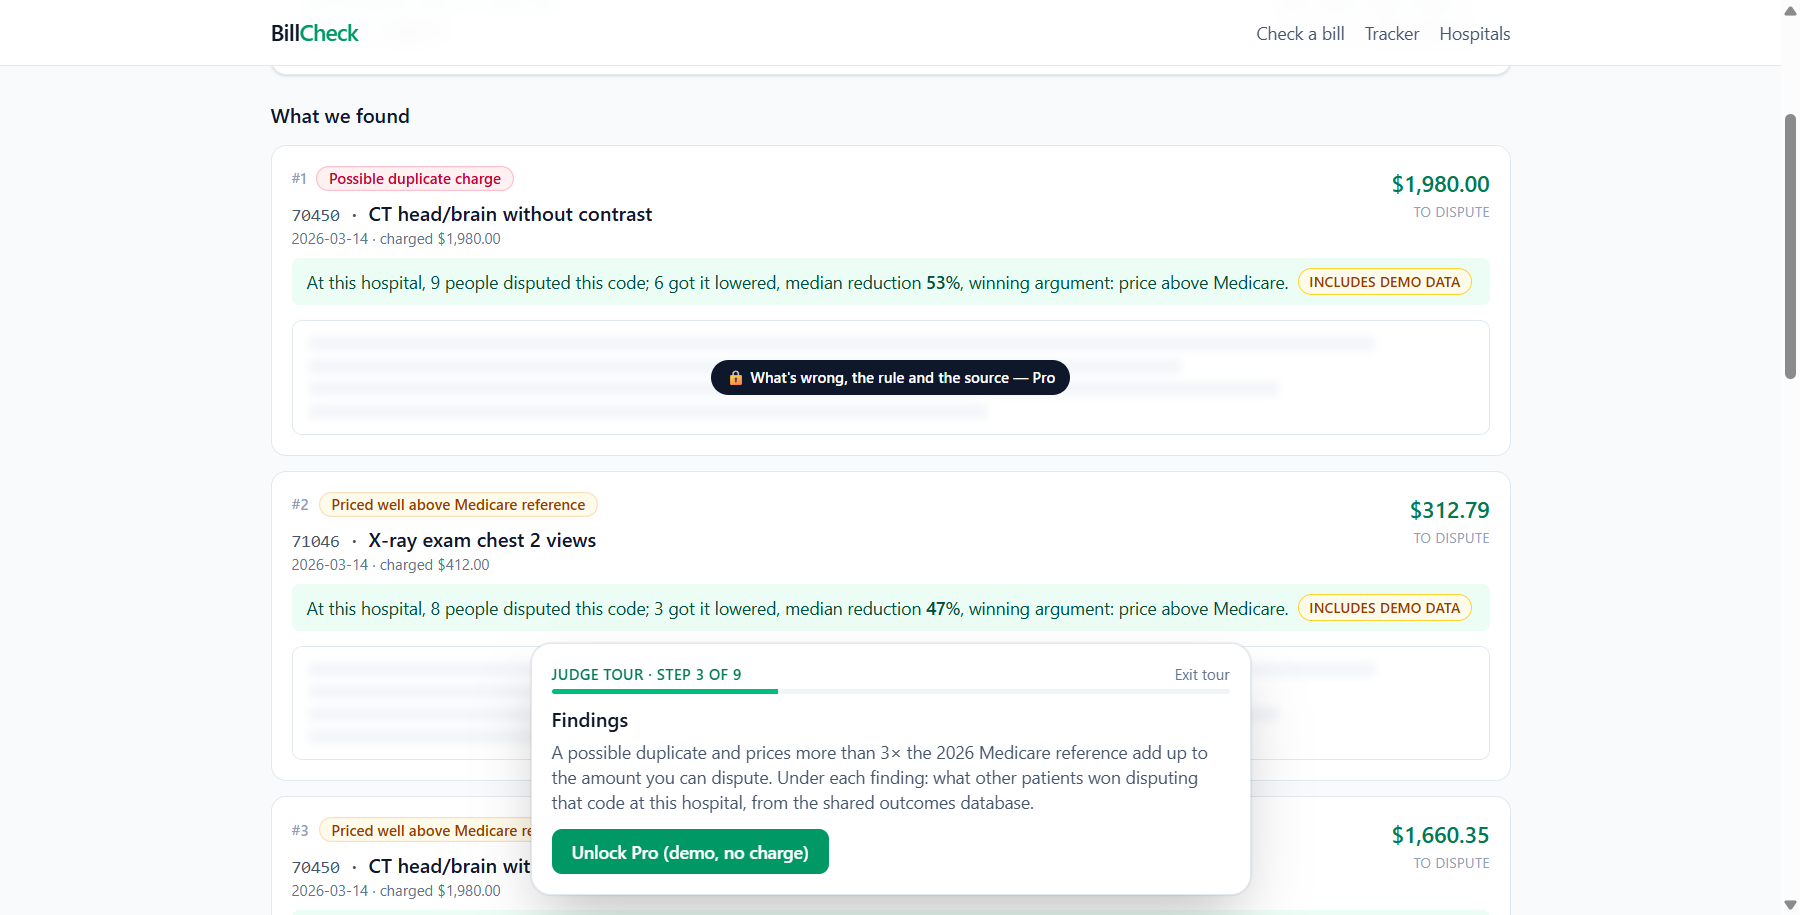
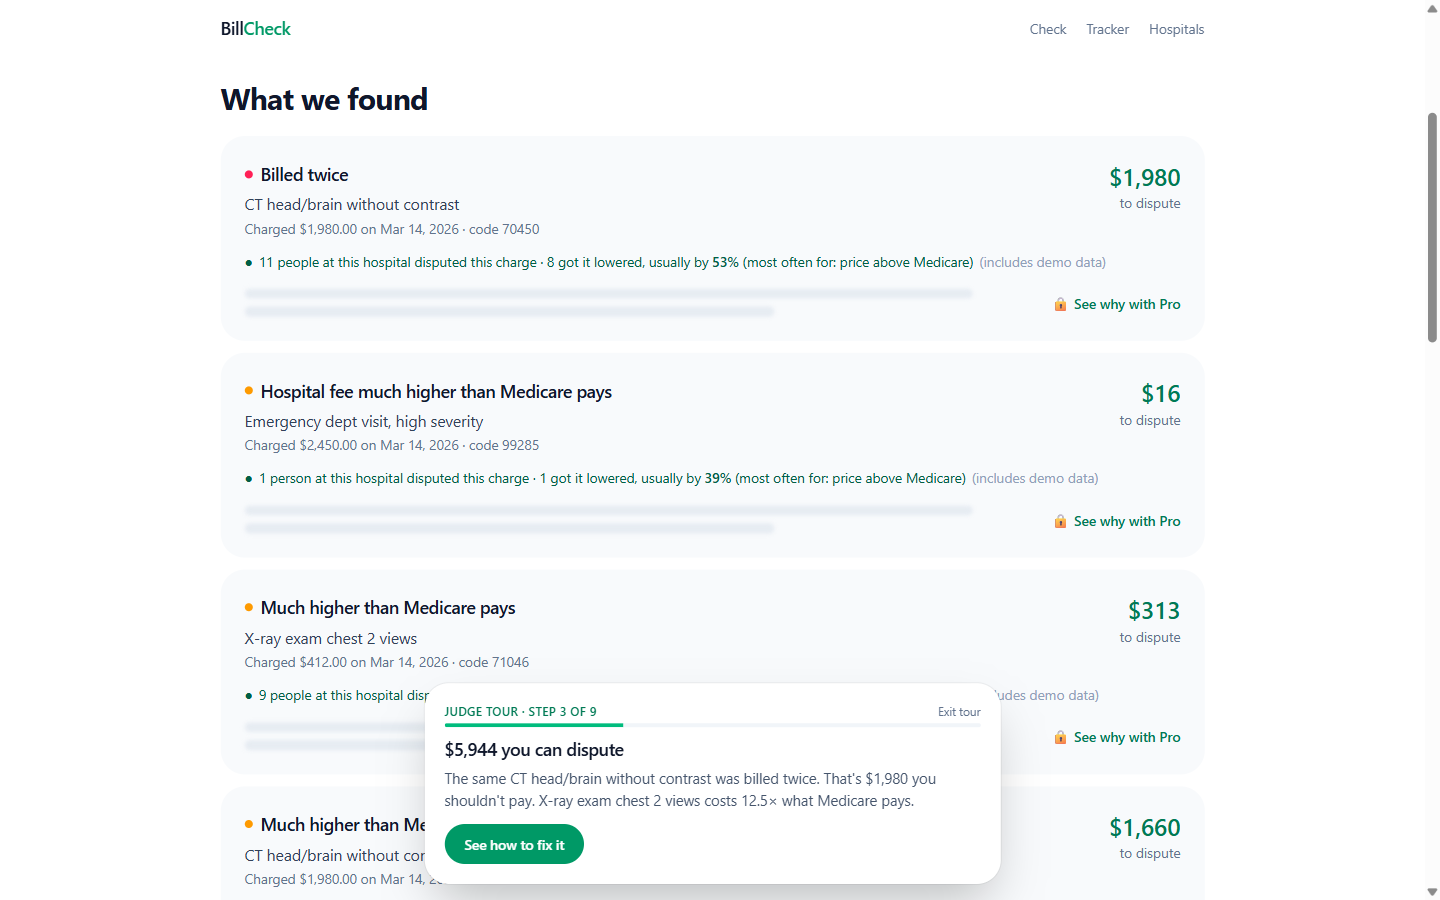
Tracker and hospital list in the same calm style and plain English; refreshed 1440px screenshots

diff --git a/app/hospitals/page.tsx b/app/hospitals/page.tsx
@@ -8,7 +8,7 @@ import { getAllOutcomes, isOutcomesConfigured } from "@/lib/outcomes/store";
 export const dynamic = "force-dynamic";
 
 export const metadata: Metadata = {
-  title: "Hospital leaderboard — BillCheck",
+  title: "Which hospitals lower bills — BillCheck",
   description: "How often hospitals lower disputed charges, from anonymous BillCheck dispute outcomes.",
 };
 
@@ -54,12 +54,12 @@ export default async function HospitalsPage() {
   return (
     <div className="space-y-6">
       <header className="space-y-2">
-        <h1 className="text-2xl font-semibold tracking-tight sm:text-3xl">Hospital leaderboard</h1>
-        <p className="text-slate-600">How often hospitals lower disputed charges, based on anonymous outcomes shared by BillCheck users.</p>
+        <h1 className="text-3xl font-semibold tracking-tight sm:text-5xl">Which hospitals lower bills</h1>
+        <p className="text-lg text-slate-500">How often each hospital lowered a charge after a patient disputed it. Based on anonymous results from BillCheck users.</p>
       </header>
 
       {!data ? (
-        <div className="rounded-xl border border-slate-200 bg-white p-6 text-slate-600">
+        <div className="rounded-3xl bg-slate-50 p-6 text-slate-600">
           <p className="font-medium text-slate-900">Leaderboard is unavailable right now.</p>
           <p className="mt-1 text-sm">The shared outcomes database is not reachable. You can still check your bill and track your dispute.</p>
           <Link href="/" className="mt-4 inline-block text-sm font-medium text-emerald-700 hover:text-emerald-800">
@@ -74,7 +74,7 @@ export default async function HospitalsPage() {
           </p>
 
           {data.rankings.length === 0 ? (
-            <div className="rounded-xl border border-slate-200 bg-white p-6 text-sm text-slate-600">
+            <div className="rounded-3xl bg-slate-50 p-6 text-sm text-slate-600">
               No hospital has {MIN_RANKING_SAMPLE}+ closed disputed lines yet.
             </div>
           ) : (
@@ -82,7 +82,7 @@ export default async function HospitalsPage() {
               {/* Mobile: cards */}
               <ol className="space-y-3 md:hidden">
                 {data.rankings.map((r, i) => (
-                  <li key={r.hospitalKey} className="rounded-xl border border-slate-200 bg-white p-4">
+                  <li key={r.hospitalKey} className="rounded-3xl bg-slate-50 p-4">
                     <div className="flex items-start justify-between gap-3">
                       <div>
                         <p className="font-medium text-slate-900">
@@ -97,16 +97,16 @@ export default async function HospitalsPage() {
                     </div>
                     <dl className="mt-3 grid grid-cols-2 gap-3 text-sm">
                       <div>
-                        <dt className="text-xs text-slate-500">Conceded</dt>
+                        <dt className="text-xs text-slate-500">Lowered</dt>
                         <dd className="font-semibold text-emerald-700">{pct(r.concededPct)}</dd>
                         <Bar pct={r.concededPct} />
                       </div>
                       <div>
-                        <dt className="text-xs text-slate-500">Median cut when lowered</dt>
+                        <dt className="text-xs text-slate-500">Usual cut</dt>
                         <dd className="font-semibold text-slate-900">{pct(r.medianReductionPct)}</dd>
                       </div>
                       <div className="col-span-2">
-                        <dt className="text-xs text-slate-500">Top winning argument</dt>
+                        <dt className="text-xs text-slate-500">Best reason</dt>
                         <dd className="text-slate-800">{argumentLabel(r.topArgument)}</dd>
                       </div>
                     </dl>
@@ -115,7 +115,7 @@ export default async function HospitalsPage() {
               </ol>
 
               {/* Desktop: table */}
-              <div className="hidden overflow-hidden rounded-xl border border-slate-200 bg-white md:block">
+              <div className="hidden overflow-hidden rounded-3xl bg-slate-50 md:block">
                 <table className="w-full text-left text-sm">
                   <thead className="bg-slate-50 text-xs uppercase tracking-wide text-slate-500">
                     <tr>
@@ -123,9 +123,9 @@ export default async function HospitalsPage() {
                       <th className="px-4 py-3 font-medium">Hospital</th>
                       <th className="px-4 py-3 font-medium">State</th>
                       <th className="px-4 py-3 text-right font-medium">Disputes</th>
-                      <th className="px-4 py-3 font-medium">Conceded</th>
-                      <th className="px-4 py-3 text-right font-medium">Median cut when lowered</th>
-                      <th className="px-4 py-3 font-medium">Top winning argument</th>
+                      <th className="px-4 py-3 font-medium">Lowered</th>
+                      <th className="px-4 py-3 text-right font-medium">Usual cut</th>
+                      <th className="px-4 py-3 font-medium">Best reason</th>
                       <th className="px-4 py-3 font-medium">
                         <span className="sr-only">Data</span>
                       </th>
@@ -157,7 +157,7 @@ export default async function HospitalsPage() {
         </>
       )}
 
-      <section className="rounded-xl border border-slate-200 bg-white p-4 text-sm text-slate-600 sm:p-6">
+      <section className="rounded-3xl bg-slate-50 p-4 text-sm text-slate-600 sm:p-6">
         <h2 className="font-semibold text-slate-900">Methodology</h2>
         <ul className="mt-2 list-disc space-y-1 pl-5">
           <li>
@@ -166,8 +166,8 @@ export default async function HospitalsPage() {
             service or free text are stored.
           </li>
           <li>
-            <strong>Conceded</strong> = share of disputed lines where the final price was lower than the original.{" "}
-            <strong>Median cut when lowered</strong> = median of (original − final) / original among the lines the
+            <strong>Lowered</strong> = share of disputed charges where the final price was lower than the original.{" "}
+            <strong>Usual cut</strong> = median of (original − final) / original among the lines the
             hospital actually lowered.
           </li>
           <li>Hospitals with fewer than {MIN_RANKING_SAMPLE} closed lines are not ranked. Ordering: conceded %, then median cut.</li>

diff --git a/components/tracker/DisputeCard.tsx b/components/tracker/DisputeCard.tsx
@@ -143,15 +143,15 @@ export default function DisputeCard({ dispute: d, now }: { dispute: Dispute; now
   // Failed earlier (e.g. previous visit) or failed just now.
   const showRetry = closed && d.outcomeShared !== true && share !== "sharing";
 
-  const btn = "rounded-lg px-3 py-2 text-sm font-medium";
+  const btn = "rounded-full px-4 py-2 text-sm font-medium";
   const primary = `${btn} bg-emerald-600 text-white hover:bg-emerald-700`;
-  const secondary = `${btn} border border-slate-300 text-slate-700 hover:bg-slate-50`;
+  const secondary = `${btn} bg-slate-900/5 text-slate-800 hover:bg-slate-900/10`;
 
   return (
-    <article data-dispute-id={d.id} className="scroll-mt-20 space-y-4 rounded-xl border border-slate-200 bg-white p-4 shadow-sm">
+    <article data-dispute-id={d.id} className="scroll-mt-20 space-y-5 rounded-3xl bg-slate-50 p-5 sm:p-7">
       <header className="flex flex-wrap items-start justify-between gap-2">
         <div className="min-w-0">
-          <h2 className="truncate text-base font-semibold text-slate-900">{d.provider}</h2>
+          <h2 className="truncate text-xl font-semibold tracking-tight text-slate-900">{d.provider}</h2>
           <p className="text-xs text-slate-500">
             {itemized ? "Itemized bill request · " : ""}Started {formatDate(d.startedAt)}
             {d.state ? ` · ${d.state}` : ""}
@@ -167,15 +167,15 @@ export default function DisputeCard({ dispute: d, now }: { dispute: Dispute; now
       </header>
 
       <dl className="grid grid-cols-3 gap-2 text-center">
-        <div className="rounded-lg bg-slate-50 p-2">
+        <div className="rounded-2xl bg-white p-3">
           <dt className="text-[11px] text-slate-500">Bill total</dt>
           <dd className="text-sm font-semibold text-slate-900">{usd(d.billTotal)}</dd>
         </div>
-        <div className="rounded-lg bg-slate-50 p-2">
+        <div className="rounded-2xl bg-white p-3">
           <dt className="text-[11px] text-slate-500">Disputed</dt>
           <dd className="text-sm font-semibold text-slate-900">{itemized ? "—" : usd(d.amountDisputed)}</dd>
         </div>
-        <div className="rounded-lg bg-emerald-50 p-2">
+        <div className="rounded-2xl bg-emerald-50 p-3">
           <dt className="text-[11px] text-slate-500">Saved</dt>
           <dd className="text-sm font-semibold text-emerald-700">
             {d.status === "resolved" && !itemized ? usd(d.savedAmount ?? 0) : "—"}
@@ -224,13 +224,13 @@ export default function DisputeCard({ dispute: d, now }: { dispute: Dispute; now
       </ol>
 
       {letter && (
-        <section data-tour="tracker-letter" className="scroll-mt-20 space-y-2 rounded-lg border border-amber-200 bg-amber-50/60 p-3">
+        <section data-tour="tracker-letter" className="scroll-mt-20 space-y-3 rounded-2xl bg-white p-4">
           <h3 className="text-sm font-semibold text-slate-900">{letter.title} — ready to send</h3>
           <textarea
             readOnly
             value={letter.text}
             rows={8}
-            className="block w-full resize-y rounded-md border border-slate-200 bg-white p-2 font-mono text-xs text-slate-800"
+            className="block w-full resize-y rounded-xl bg-slate-50 p-3 font-mono text-xs text-slate-800"
           />
           <div className="flex flex-wrap gap-2">
             <button type="button" onClick={() => copy(letter.text)} className={secondary}>
@@ -249,7 +249,7 @@ export default function DisputeCard({ dispute: d, now }: { dispute: Dispute; now
       )}
 
       {d.ppdr && ppdrText && !closed && (
-        <section className="space-y-2 rounded-lg border border-sky-200 bg-sky-50/60 p-3">
+        <section className="space-y-3 rounded-2xl bg-white p-4">
           <h3 className="text-sm font-semibold text-slate-900">
             Federal Good Faith Estimate dispute (No Surprises Act)
           </h3>
@@ -272,7 +272,7 @@ export default function DisputeCard({ dispute: d, now }: { dispute: Dispute; now
                 value={ppdrText}
                 rows={6}
                 aria-label="Federal dispute request text"
-                className="block w-full resize-y rounded-md border border-slate-200 bg-white p-2 font-mono text-xs text-slate-800"
+                className="block w-full resize-y rounded-xl bg-slate-50 p-3 font-mono text-xs text-slate-800"
               />
               <div className="flex flex-wrap gap-2">
                 <button type="button" onClick={() => copy(ppdrText)} className={secondary}>
@@ -323,7 +323,7 @@ export default function DisputeCard({ dispute: d, now }: { dispute: Dispute; now
         </p>
       )}
 
-      <footer className="flex flex-wrap gap-2 border-t border-slate-100 pt-3">
+      <footer className="flex flex-wrap gap-2 pt-1">
         {!closed && (
           <>
             <button type="button" onClick={() => downloadIcs(d)} className={secondary}>

diff --git a/components/tracker/TrackerApp.tsx b/components/tracker/TrackerApp.tsx
@@ -25,7 +25,7 @@ export default function TrackerApp() {
 
   if (!pro) {
     return (
-      <div className="mx-auto max-w-md rounded-xl border border-slate-200 bg-white p-6 text-center">
+      <div className="mx-auto max-w-md rounded-3xl bg-slate-50 p-8 text-center">
         <h1 className="text-lg font-semibold text-slate-900">The dispute tracker is a Pro feature</h1>
         <p className="mt-2 text-sm text-slate-600">
           Pro tracks every dispute, reminds you at day 30 and day 60, and writes the follow-up and escalation letters.
@@ -46,7 +46,7 @@ export default function TrackerApp() {
     <div className="space-y-5">
       <div className="flex flex-wrap items-end justify-between gap-2">
         <div>
-          <h1 className="text-xl font-semibold text-slate-900">Dispute tracker</h1>
+          <h1 className="text-3xl font-semibold tracking-tight text-slate-900 sm:text-4xl">Your disputes</h1>
           <p className="text-sm text-slate-600">
             {disputes.length === 0
               ? "No disputes yet."
@@ -63,7 +63,7 @@ export default function TrackerApp() {
       <DemoClock />
 
       {disputes.length === 0 ? (
-        <div className="rounded-xl border border-slate-200 bg-white p-6 text-center text-sm text-slate-600">
+        <div className="rounded-3xl bg-slate-50 p-8 text-center text-slate-600">
           Check a bill and send the dispute letter — it will show up here with reminders at day 30 and day 60.
           <div className="mt-3">
             <Link href="/" className="font-medium text-emerald-700 hover:underline">

diff --git a/components/tracker/DemoClock.tsx b/components/tracker/DemoClock.tsx
@@ -7,7 +7,7 @@ export default function DemoClock() {
   const offset = useClockOffset();
   const now = useNow();
   return (
-    <div className="flex flex-col gap-3 rounded-xl border border-dashed border-slate-300 bg-white p-3 sm:flex-row sm:items-center sm:justify-between">
+    <div className="flex flex-col gap-3 rounded-3xl bg-slate-50 p-4 sm:flex-row sm:items-center sm:justify-between sm:px-6">
       <div className="text-sm">
         <span className="mr-2 rounded bg-slate-900 px-1.5 py-0.5 text-[11px] font-semibold uppercase tracking-wide text-white">
           Demo clock
@@ -20,7 +20,7 @@ export default function DemoClock() {
           type="button"
           data-tour="simulate"
           onClick={() => simulateDays(30)}
-          className="flex-1 rounded-lg bg-slate-900 px-3 py-2 text-sm font-medium text-white hover:bg-slate-700 sm:flex-none"
+          className="flex-1 rounded-full bg-slate-900 px-4 py-2 text-sm font-medium text-white hover:bg-slate-700 sm:flex-none"
         >
           Simulate +30 days
         </button>
@@ -28,7 +28,7 @@ export default function DemoClock() {
           <button
             type="button"
             onClick={() => resetClock()}
-            className="flex-1 rounded-lg border border-slate-300 px-3 py-2 text-sm font-medium text-slate-700 hover:bg-slate-50 sm:flex-none"
+            className="flex-1 rounded-full bg-slate-900/5 px-4 py-2 text-sm font-medium text-slate-800 hover:bg-slate-900/10 sm:flex-none"
           >
             Reset clock
           </button>
